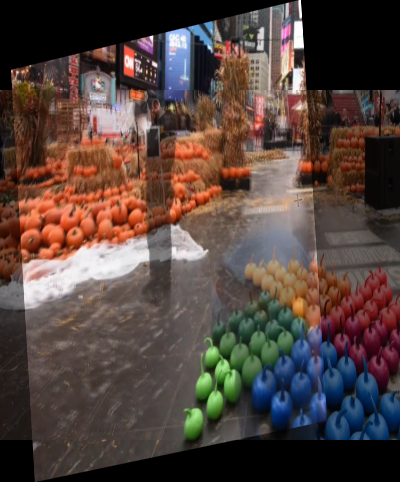
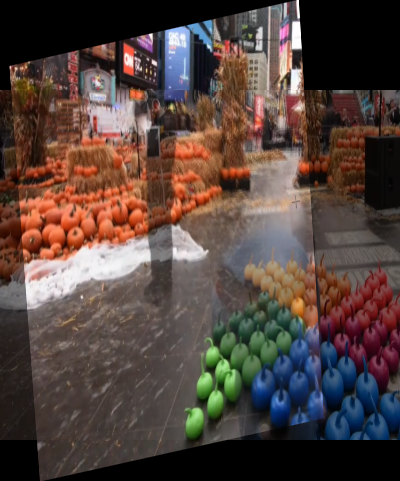
new image output pushed

diff --git a/approach2/stitching.py b/approach2/stitching.py
@@ -1,17 +1,6 @@
 import torch
 import kornia
 def stitch_background(imgs: torch.Tensor) -> torch.Tensor:
-    """
-    Args:
-        imgs : input images are a list of 2 images of torch.Tensor represent an input images for task-1.
-    Returns:
-        img: stitched_image: torch.Tensor of the output image. 
-    """
-    """
-    Torch info: All intermediate data structures should use torch data structures or objects. 
-    Numpy and cv2 are not allowed.
-    """
-
 
     img1 = imgs["t1_1.png"].float()
     img2 = imgs["t1_2.png"].float()
@@ -89,13 +78,6 @@ def stitch_background(imgs: torch.Tensor) -> torch.Tensor:
 
 
 def panorama(imgs: torch.Tensor):
-    """
-    Args:
-        imgs : input images are a list of torch.Tensor represent an input images for task-2.
-    Returns:
-        img, result: panorama, overlap: torch.Tensor of the output image. 
-    """
-
     def get_overlap(img1, img2):
         # keypoints
         inp = torch.cat([img1, img2], dim=0)

diff --git a/approach2/main.py b/approach2/main.py
@@ -41,10 +41,9 @@ def main():
 
     # List of panorama images
     panorama_paths = [
-        "images/panaroma/t2_1.png",
-        "images/panaroma/t2_2.png",
-        "images/panaroma/t2_3.png",
-        "images/panaroma/t2_4.png"
+        "images/panaroma/t2_5.jpeg",
+        "images/panaroma/t2_6.jpeg",
+        "images/panaroma/t2_7.jpeg"
     ]
 
     imgs_task2 = {
